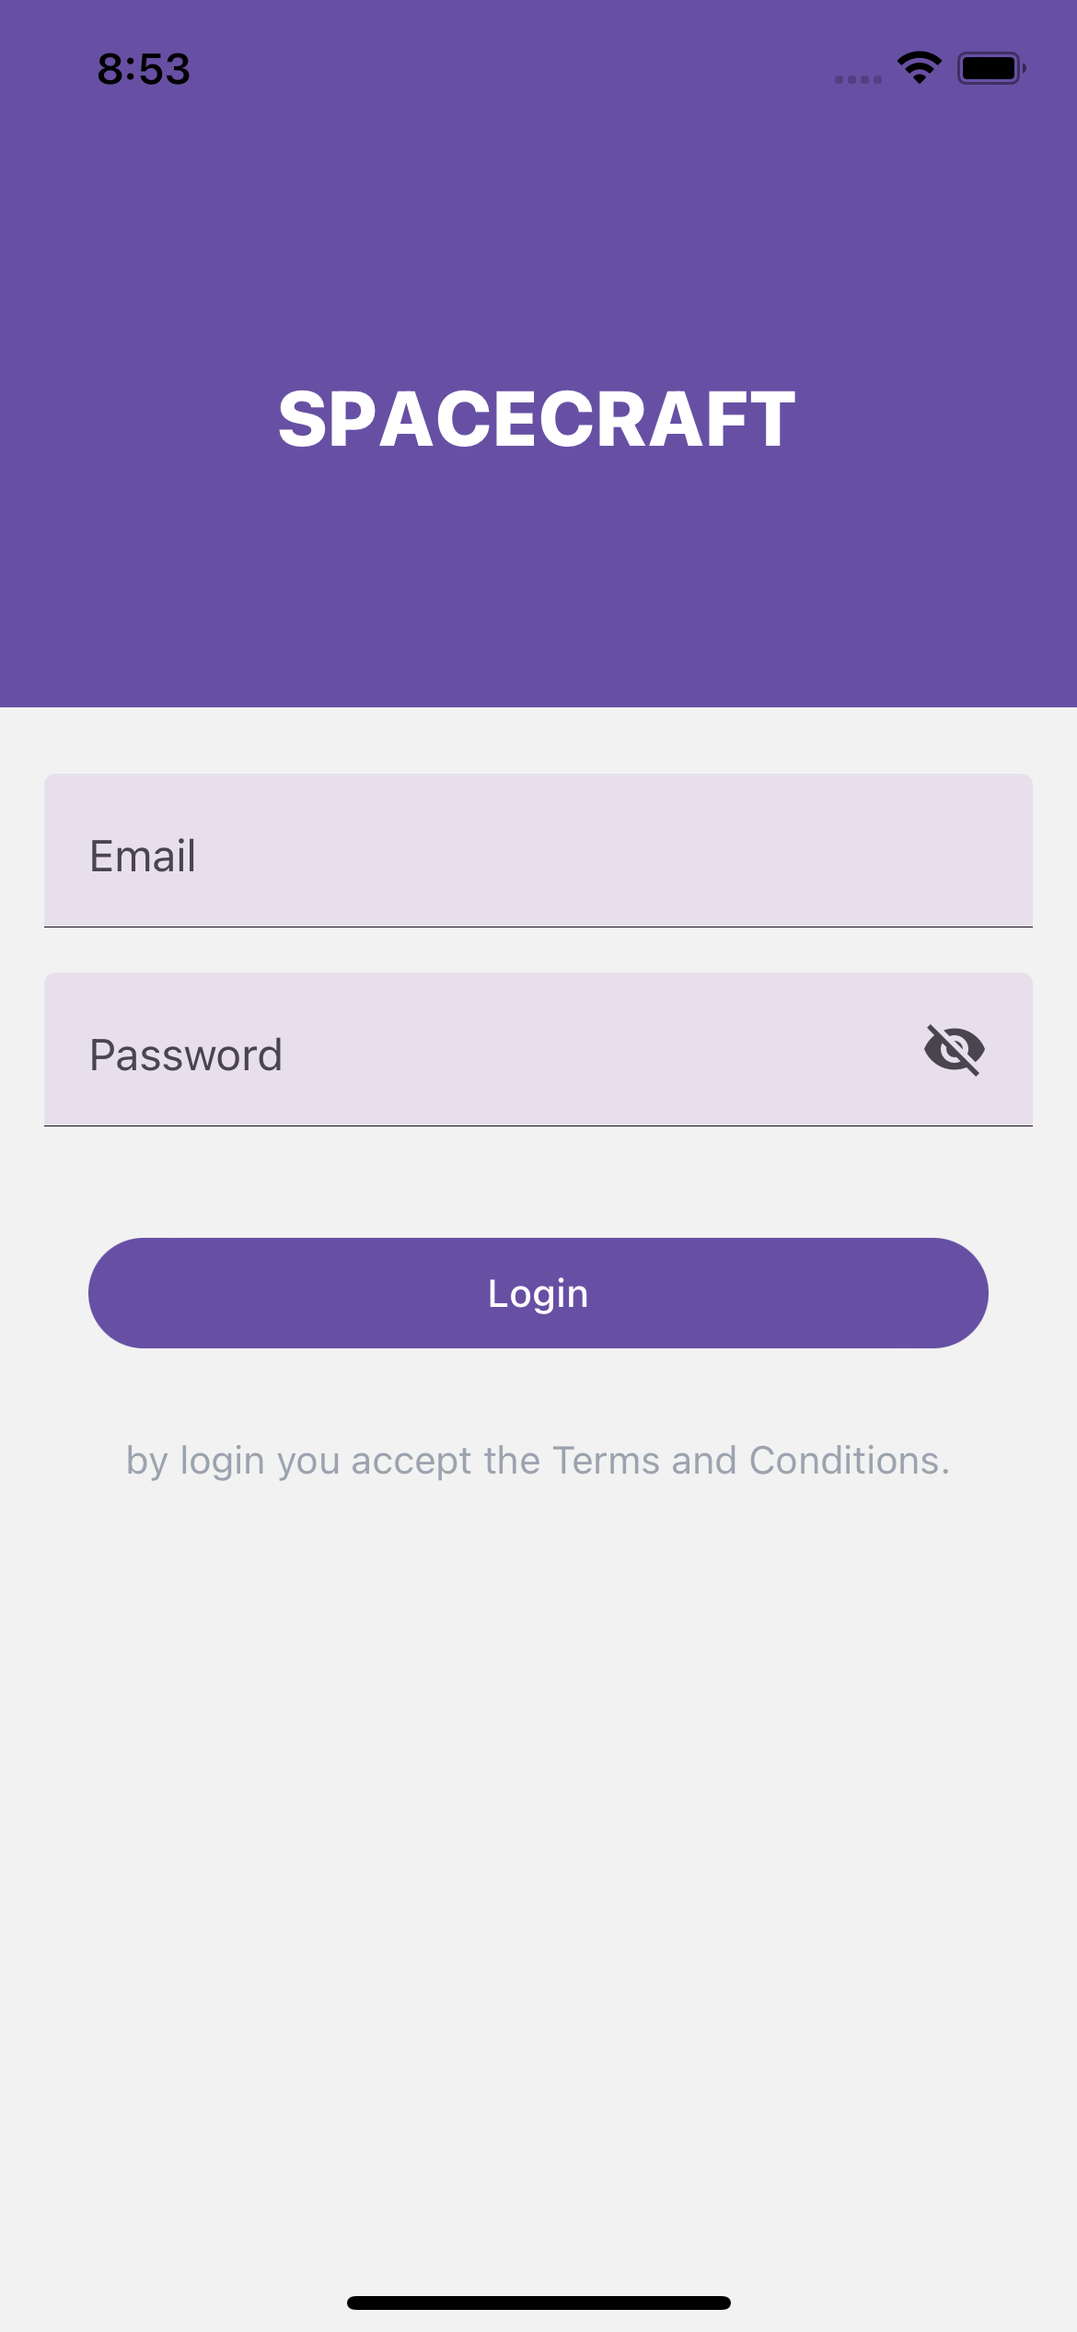
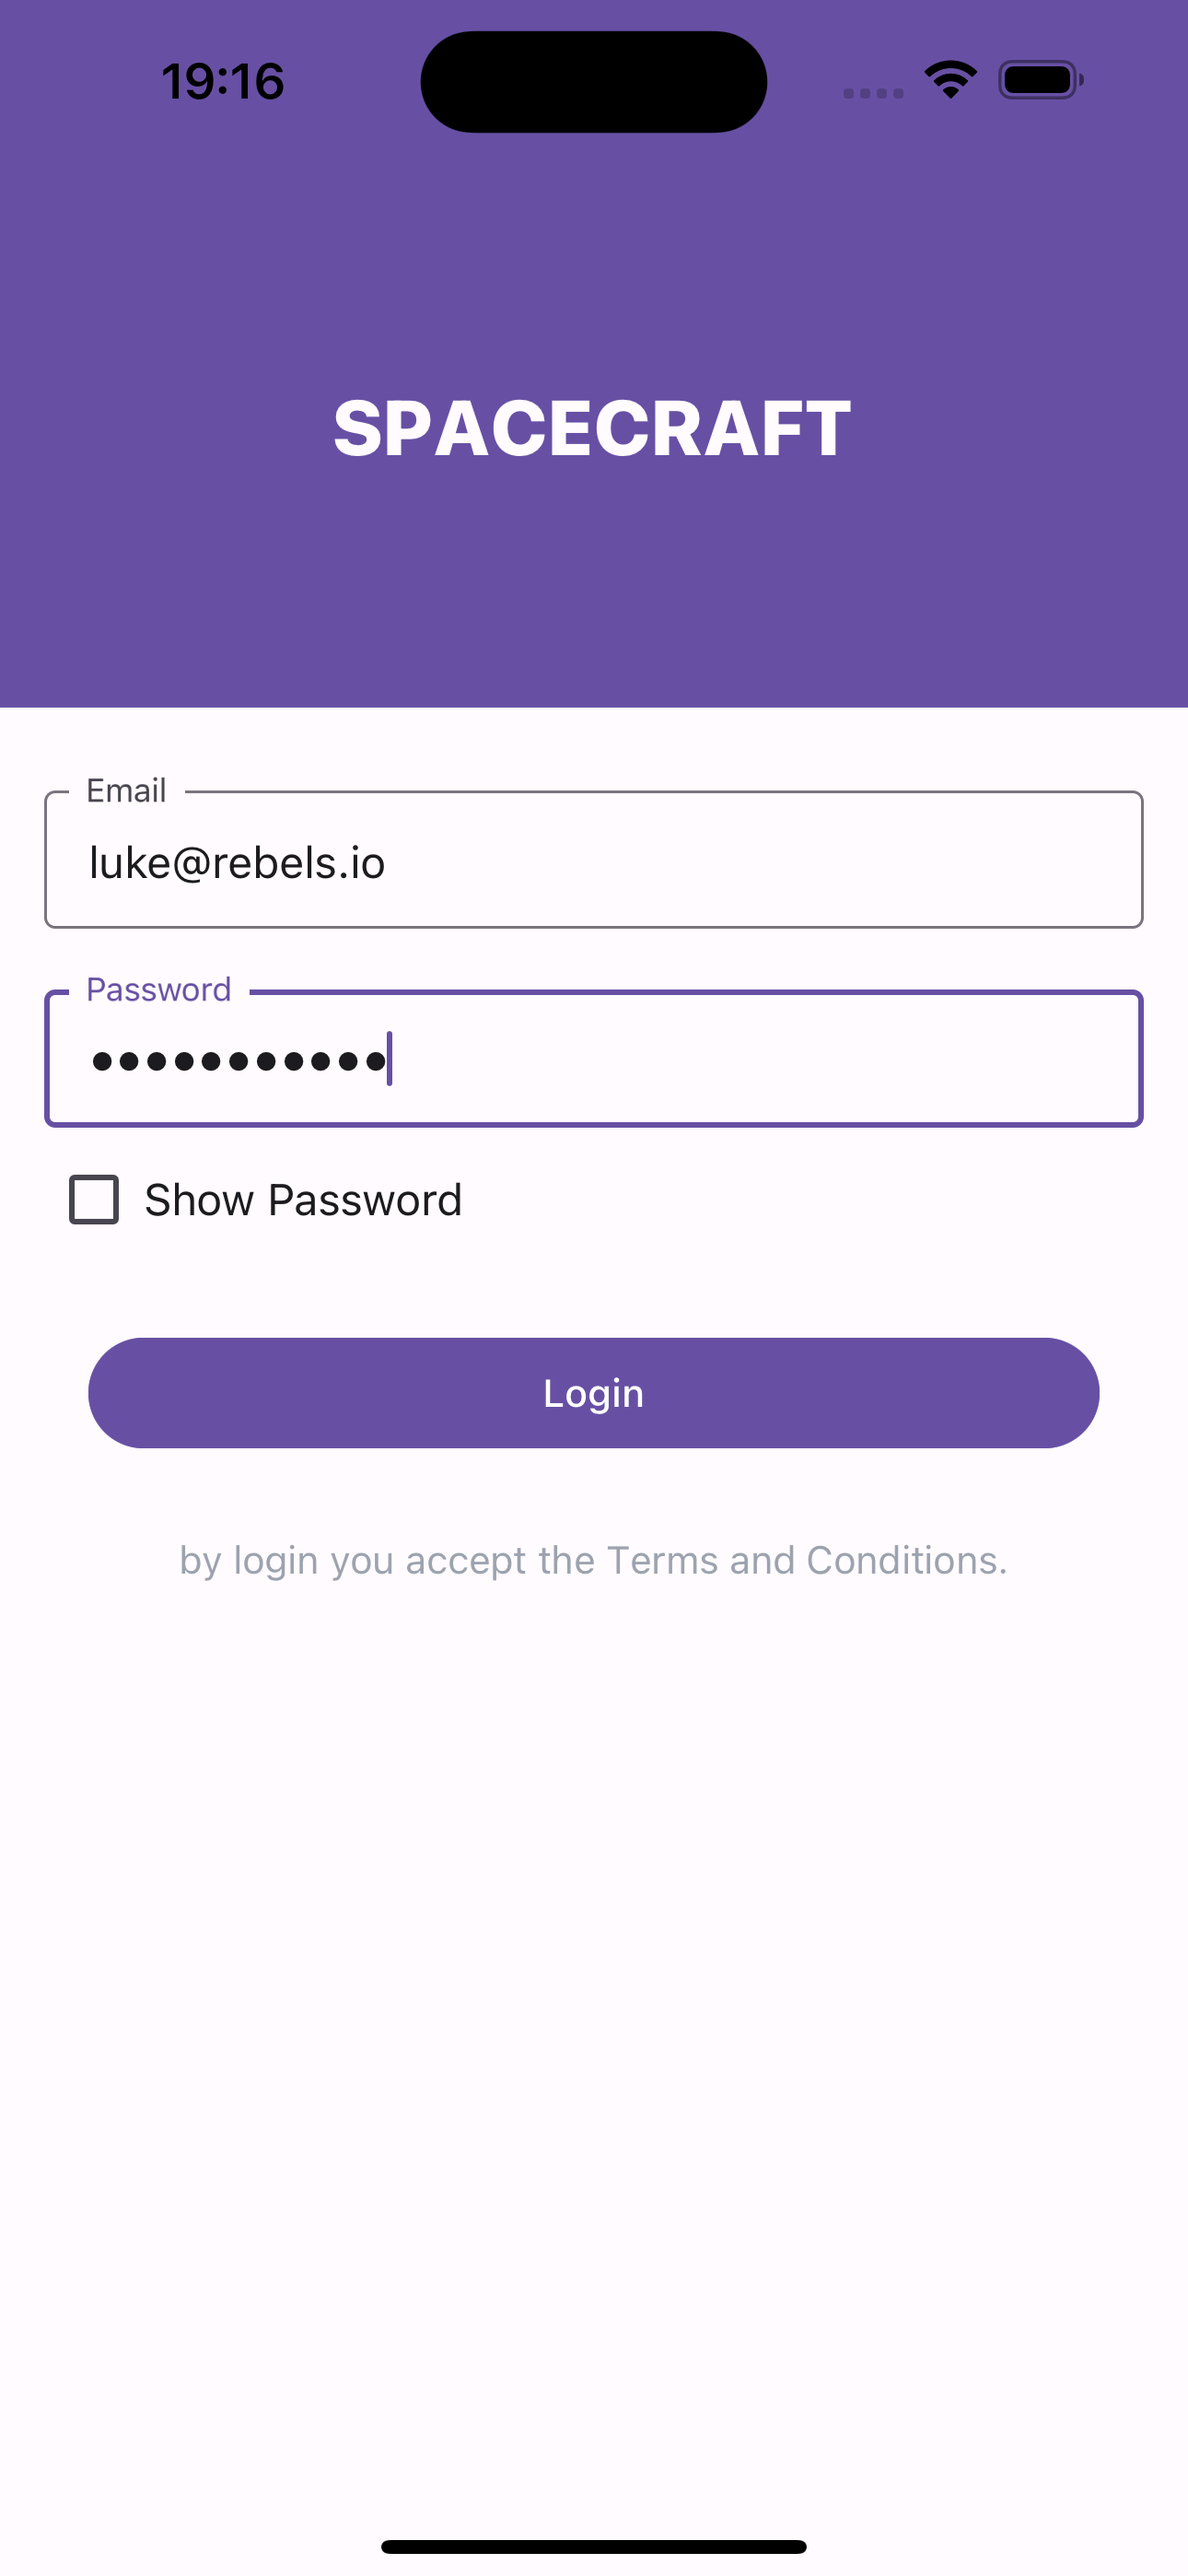
add password

diff --git a/hackathon/spacecraft/src/screens/LoginScreen.tsx b/hackathon/spacecraft/src/screens/LoginScreen.tsx
@@ -1,6 +1,14 @@
 import React, { useState } from "react";
-import { StyleSheet, TouchableOpacity, Text, View } from "react-native";
-import { Button, TextInput, useTheme } from "react-native-paper";
+import { StyleSheet, TouchableOpacity, View, Pressable } from "react-native";
+import {
+  Button,
+  Checkbox,
+  Text,
+  List,
+  MD3Colors,
+  TextInput,
+  useTheme,
+} from "react-native-paper";
 import { useNavigation } from "@react-navigation/native";
 
 import { FormInput } from "../components/FromInput";
@@ -12,7 +20,7 @@ import { Header } from "~/components/Header";
 export const LoginScreen = () => {
   const [email, setEmail] = useState("");
   const [password, setPassword] = useState("");
-  const [isVisible, setIsVisible] = useState(true);
+  const [checked, setChecked] = React.useState(false);
 
   const navigation = useNavigation<any>();
   const { setUser } = useAuthentication();
@@ -25,7 +33,7 @@ export const LoginScreen = () => {
   }
 
   function toggleSecureIcon() {
-    setIsVisible(!isVisible);
+    setChecked(!checked);
   }
 
   const theme = useTheme();
@@ -41,19 +49,27 @@ export const LoginScreen = () => {
           returnKeyType="next"
           keyboardType="email-address"
           autoComplete="email"
+          textContentType="emailAddress"
+          autoCapitalize="none"
         />
         <FormInput
           label="Password"
           value={password}
-          secureTextEntry={isVisible}
+          secureTextEntry={!checked}
           onChangeText={(value) => setPassword(value)}
           autoComplete="password"
-          right={
-            <TextInput.Icon
-              onPress={toggleSecureIcon}
-              icon={isVisible ? "eye-off" : "eye"}
-            />
-          }
+        />
+        <Checkbox.Item
+          label="Show Password"
+          onPress={toggleSecureIcon}
+          status={checked ? "checked" : "unchecked"}
+          labelStyle={{ textAlign: "left" }}
+          style={{
+            paddingVertical: 0,
+            paddingHorizontal: 0,
+          }}
+          position="leading"
+          mode="android"
         />
         <Button
           onPress={handleLogin}

diff --git a/hackathon/spacecraft/src/components/FromInput.tsx b/hackathon/spacecraft/src/components/FromInput.tsx
@@ -12,6 +12,7 @@ export const FormInput = ({
   <View style={{ paddingVertical: 8 }}>
     <TextInput
       {...rest}
+      mode="outlined"
       label={label}
       value={value}
       onChangeText={onChangeText}
